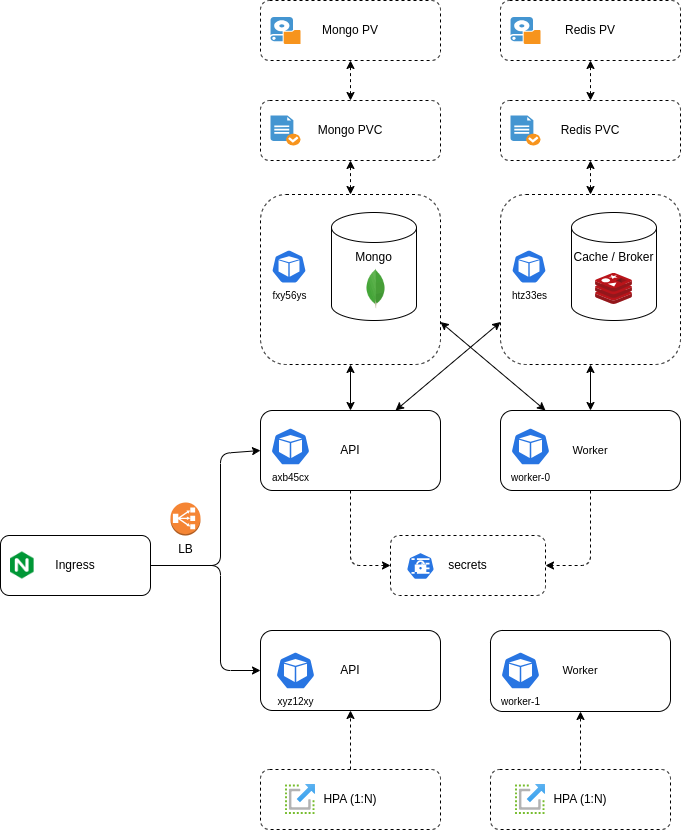
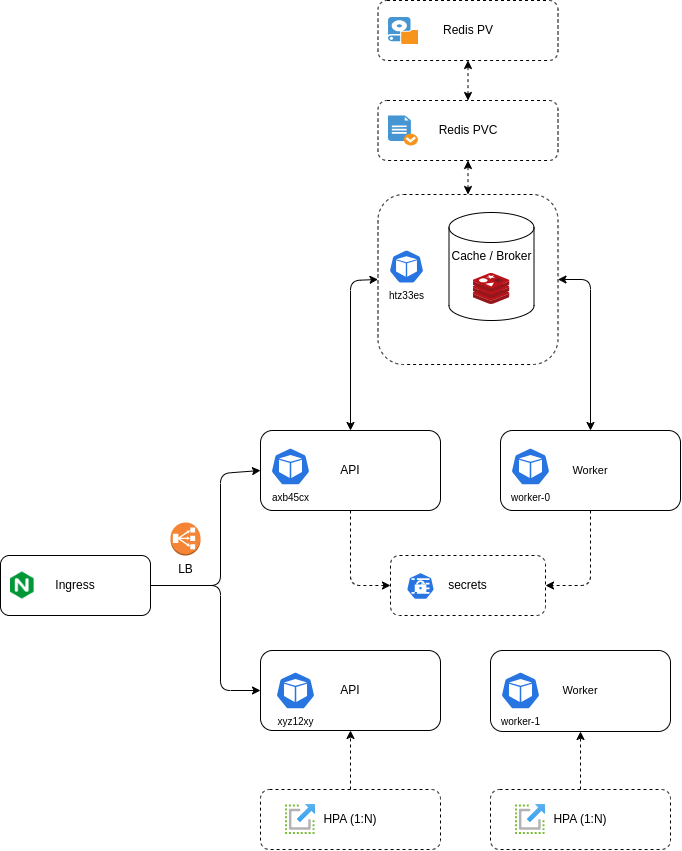
Update documentation

diff --git a/docs/docs/index.md b/docs/docs/index.md
@@ -1,4 +1,4 @@
-# FastAPI K8S
+# FastAPI Celery K8S
 
 [![Python 3.12](https://img.shields.io/badge/python-3.12-blue.svg)](https://www.python.org/downloads/release/python-3120/)
 [![FastAPI](https://img.shields.io/badge/FastAPI-0.115.12-blue.svg)](https://fastapi.tiangolo.com/)
@@ -16,27 +16,24 @@ This project is a modern FastAPI application designed to run on Kubernetes clust
 - High-performance FastAPI backend
 - Asynchronous task processing with Celery
 - Redis for caching and task queue
-- Beanie for MongoDB ODM
 - Containerized deployment with Docker
 - Kubernetes orchestration with Microk8s
 - Live documentation with MkDocs
 - Automated tasks with Makefile
-- Automated tests with pytest
 
 ## Prerequisites
 
 - Python 3.12
 - Docker
 - Microk8s
-- MongoDB
 - Redis
 
 ## Development
 
 1. Clone the repository:
 ```bash
-git clone https://github.com/igor-rodrigues-ss/fapi-k8s.git
-cd fapi-k8s
+git clone https://github.com/igor-rodrigues-ss/fapi-celery-k8s.git
+cd fapi-celery-k8s
 ```
 
 2. Set up the environment:
@@ -44,29 +41,30 @@ cd fapi-k8s
 make install-dev
 ```
 
-3. Build and deploy to Kubernetes:
+3. Create .env file in root project based on template.env
+```bash
+cp template.env .env
+# Change env values in .env file
+```
+
+4. Build and deploy to Kubernetes:
 ```bash
 make start
 ```
 
-4. Start celery worker:
+5. Start celery worker:
 ```bash
 make celery
 ```
 
-5. Start flower:
+6. Start flower:
 ```bash
 make flower
 ```
 
-6. Start MkDocs server:
+7. Start MkDocs server:
 ```bash
 make docs
-```
-
-4. Run tests:
-```bash
-make test
 ```
 
 ## Production
@@ -82,7 +80,7 @@ make deploy
 
 ## Architecture Overview
 
-![Cluster Architecture](imgs/arch.png)
+![Cluster Architecture](docs/docs/imgs/arch.png)
 
 The system is built on a Kubernetes cluster architecture with the following key components:
 

diff --git a/README.md b/README.md
@@ -1,4 +1,4 @@
-# FastAPI K8S
+# FastAPI Celery K8S
 
 [![Python 3.12](https://img.shields.io/badge/python-3.12-blue.svg)](https://www.python.org/downloads/release/python-3120/)
 [![FastAPI](https://img.shields.io/badge/FastAPI-0.115.12-blue.svg)](https://fastapi.tiangolo.com/)
@@ -16,19 +16,16 @@ This project is a modern FastAPI application designed to run on Kubernetes clust
 - High-performance FastAPI backend
 - Asynchronous task processing with Celery
 - Redis for caching and task queue
-- Beanie for MongoDB ODM
 - Containerized deployment with Docker
 - Kubernetes orchestration with Microk8s
 - Live documentation with MkDocs
 - Automated tasks with Makefile
-- Automated tests with pytest
 
 ## Prerequisites
 
 - Python 3.12
 - Docker
 - Microk8s
-- MongoDB
 - Redis
 
 ## Development
